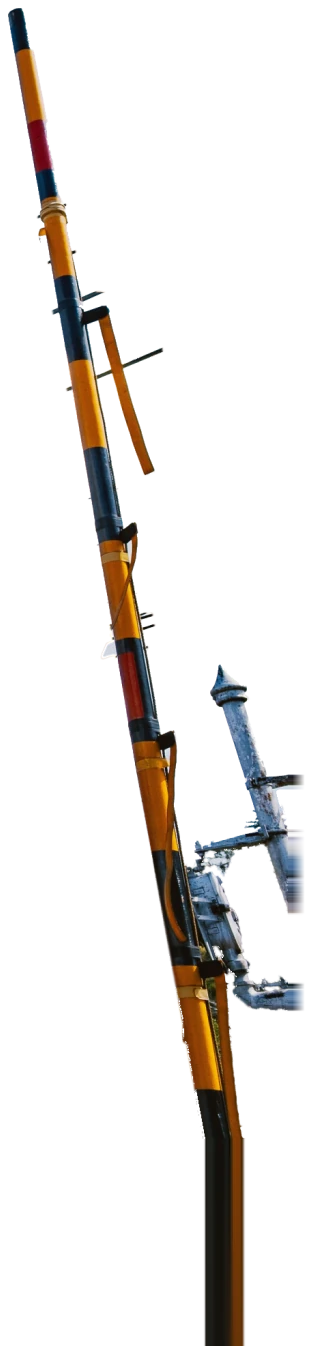
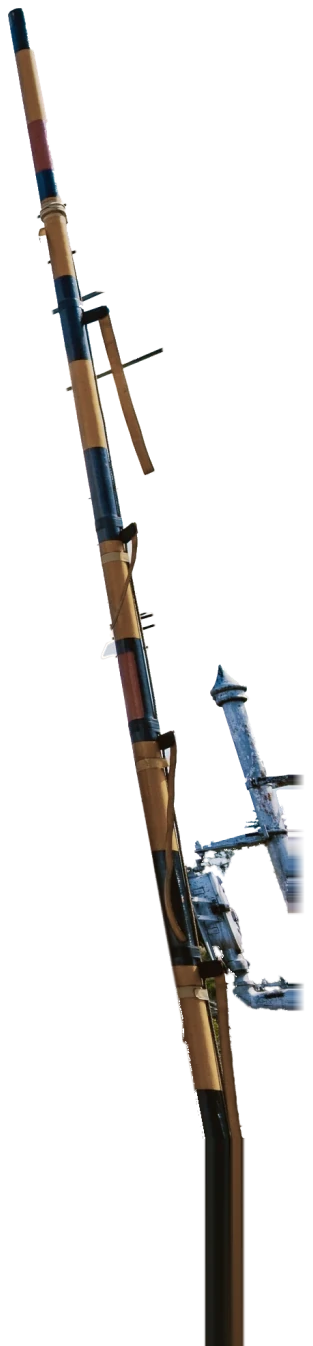
Lab: climb crossing round 3
Claude-Session: https://claude.ai/code/session_01RqENhngNCzDFmJWDZueXGV

diff --git a/src/app/lab/crossing/crossingEngine.js b/src/app/lab/crossing/crossingEngine.js
@@ -106,8 +106,11 @@ const PLANES = [
   // the split (flat: false), as they do inside the photo.
   { file: "p2", rect: [-0.2998, 0.03466, 1.22021, 1.19027], o: 0.2, hold: false, ends: [true, false, false, true], flat: false }, // wires
   // the mechanism box is cut by the right edge and ends a few px past
-  // it (bake.py): that side is a cut-out end, not overscan to keep covered
-  { file: "p3", rect: [0.85742, 0.15708, 1.01025, 1.14971], o: 0.08, ends: [false, false, true, false] }, // barrier boom, mast
+  // it (bake.py): that side is a cut-out end, not overscan to keep covered.
+  // Its orange and red band were regraded to a muted ochre and a dull brick
+  // (boomgrade.py) and it is a little soft (cocFor): one warm accent, the
+  // crossbuck.
+  { file: "p3", rect: [0.85742, 0.15708, 1.01025, 1.14971], o: 0.08, ends: [false, false, true, false], soft: 3 }, // barrier boom, mast
   // the house's margin is its edge column carried straight on (bake.py), which
   // holds as the beams running on for a short way and then reads as streaks
   { file: "p4", rect: [-0.1499, 0.44248, 0.50928, 1.14971], o: -0.06, clean: [-0.03, null, null, null] }, // the old house
@@ -173,6 +176,19 @@ const ASPECT_RANGE = [1 / 1.2, 1.3];
 // look into on every side before any card has to lean on its overscan.
 const ZOOM = 1.05;
 const APERTURE = 15; // CoC in css px for a plane at |z - zf| / z = 1, at split 1
+// A card's circle of confusion in css px: the lens's, opening with the split,
+// and for a card with its own softness (soft, css px) that much again
+// wherever the lens is not on it. The boom is soft: its ochre and brick sit
+// just out of focus beside the crossbuck and the lamp heads, which stay the
+// one sharp warm anchor. Flat it is the photograph, so it fades in with the
+// split; focus on the boom and it comes sharp.
+const SOFT_OFF = 0.03; // |z - zf| / z at which a soft card is fully soft
+const cocFor = (P, z, s, focusZ) => {
+  const off = Math.abs(z - focusZ) / z;
+  const lensCoc = APERTURE * s * off * (P.dof ?? 1);
+  const own = (P.soft ?? 0) * Math.min(1, s / 0.05) * Math.min(1, off / SOFT_OFF);
+  return Math.hypot(lensCoc, own);
+};
 const LIGHT = normalize([0.18, 0.28, 1]); // toward the sun: up, right (the eave's shadow on the wall), toward us
 const HAZE = [0.86, 0.93, 0.95];
 
@@ -836,7 +852,7 @@ export async function createCrossing(host, { embedded = false } = {}) {
     for (let k = 0; k < N; k++) {
       const P = PLANES[k];
       const z = G.zs[k];
-      const coc = APERTURE * s * (Math.abs(z - focusZ) / z) * dpr * (P.dof ?? 1);
+      const coc = cocFor(P, z, s, focusZ) * dpr;
       // the quad grows by the blur so a defocused edge is not cut
       const m = coc / dpr / G.printW;
       const r = P.rect;
@@ -973,7 +989,7 @@ export async function createCrossing(host, { embedded = false } = {}) {
     // The window: the eye stops where a card's overscan runs out, so no
     // card edge ever comes into it. A hand that pushes further is held at
     // the edge, as by the mat itself.
-    const cocs = G.zs.map((z, k) => APERTURE * s * (Math.abs(z - focusZ) / z) * stage.dpr * (PLANES[k].dof ?? 1));
+    const cocs = G.zs.map((z, k) => cocFor(PLANES[k], z, s, focusZ) * stage.dpr);
     const limP = swingLimit(G, 0, pitchDeg, cocs, true);
     pitchDeg *= limP;
     const limY = swingLimit(G, yawDeg, pitchDeg, cocs, false);

diff --git a/tools/depth/bakes/crossing/boomgrade.py b/tools/depth/bakes/crossing/boomgrade.py
@@ -1,0 +1,49 @@
+"""The barrier boom's regrade: one warm accent in the frame, not three.
+
+The crossbuck's yellow and black is the anchor. As shot, the boom beside it is
+a saturated orange with a red band, at the same chroma and the same
+sharpness, so the eye ping-pongs between the two. Here its orange (and its
+strap) goes to a muted ochre at under half its chroma, turned a few degrees
+toward yellow-brown and a shade deeper, and its red band to a dull brick, a
+little lighter and at half its chroma. Everything else on the card (the black bands, the grey
+steel mast and its cap, the white flag) is near-neutral or cool and is left
+alone: the weight is a soft window on hue and chroma.
+
+regrade_boom(rgb, share) takes float32 sRGB 0..1 and moves each pixel by
+`share` of the way to the regraded colour, so a soft edge mixed with the sky
+has only its boom share moved (as regrade_sky does for the sky).
+"""
+import numpy as np
+import cv2
+
+OCHRE_CHROMA = 0.47  # the orange: under half its chroma
+OCHRE_TURN = 4.0  # degrees of hue toward yellow-brown
+OCHRE_DEEPEN = 3.0  # L*: an earth pigment, not a pale khaki
+BRICK_CHROMA = 0.5  # the red band
+BRICK_LIFT = 4.0  # L*: a dull brick, not a dark maroon
+
+
+def _ramp(x, a, b):
+    t = np.clip((x - a) / (b - a), 0, 1)
+    return t * t * (3 - 2 * t)
+
+
+def regrade_boom(rgb, share=None):
+    lab = cv2.cvtColor(np.clip(rgb, 0, 1).astype(np.float32), cv2.COLOR_RGB2Lab)
+    L, A, B = lab[..., 0], lab[..., 1], lab[..., 2]
+    C = np.hypot(A, B)
+    h = np.degrees(np.arctan2(B, A))
+    # warm hues only (red through orange to amber), and only what has colour
+    warm = _ramp(h, -25, -5) * (1 - _ramp(h, 88, 100)) * _ramp(C, 8, 18)
+    # 0 for the red band (hue about 30 deg), 1 for the orange (about 58 deg)
+    orange = _ramp(h, 38, 50)
+    scale = BRICK_CHROMA + (OCHRE_CHROMA - BRICK_CHROMA) * orange
+    turn = OCHRE_TURN * orange * (1 - _ramp(h, 72, 88))
+    C2 = C * (1 - warm * (1 - scale))
+    h2 = np.radians(h + warm * turn)
+    L2 = L + warm * ((1 - orange) * BRICK_LIFT - orange * OCHRE_DEEPEN)
+    out = cv2.cvtColor(np.dstack([L2, C2 * np.cos(h2), C2 * np.sin(h2)]).astype(np.float32), cv2.COLOR_Lab2RGB)
+    out = np.clip(out, 0, 1)
+    if share is None:
+        return out
+    return (rgb + np.clip(share, 0, 1)[..., None] * (out - rgb)).astype(np.float32)

diff --git a/tools/depth/bakes/crossing/bake.py b/tools/depth/bakes/crossing/bake.py
@@ -17,7 +17,8 @@ Reads <workdir>/labels.npz from labels.py. For every plane, far to near:
              veil that slides over the cards behind as a ghost contour), the
              wires' alpha measured as how far each pixel is darkened toward
              the wire, and the town solid inside its outline.
-  colour     the photo where the plane is seen; its edge pixels are
+  colour     the photo where the plane is seen (the boom's regraded to a
+             muted ochre and brick by boomgrade.py); its edge pixels are
              un-mixed from what lies behind them (no sky fringe on a pole);
              hidden parts are inpainted: smooth colour from a push-pull
              pyramid plus real texture mirrored across the occlusion edge.
@@ -52,6 +53,7 @@ sys.path.insert(0, os.path.dirname(os.path.abspath(__file__)))
 from common import box, guided, dilate, erode, pushpull, smoothstep  # noqa: E402
 from shiftfill import shiftfill  # noqa: E402
 from skygrad import sky_gradient  # noqa: E402
+from boomgrade import regrade_boom  # noqa: E402
 
 WORK, OUT = sys.argv[1:3]
 os.makedirs(OUT, exist_ok=True)
@@ -179,6 +181,11 @@ img, SKY_G = regrade_sky(img, 1 - A[1])
 WIRE_K = 2  # the plane that holds the overhead wires
 TOWN_K = 1  # the far houses: the street's back flat
 BOOM_K = 3  # the barrier boom, its mast and mechanism
+# One warm accent, the crossbuck: the boom's saturated orange and red band go
+# to a muted ochre and a dull brick (boomgrade.py). Only the boom's share of
+# each pixel moves, so its card, its un-mixed edges and the flat photograph
+# (and so cumulus.py, wires.py and crossbuck.py after it) all carry it.
+img = regrade_boom(img, A[BOOM_K] - A[BOOM_K + 1])
 # Big holes with structure behind them (the house wall and fence behind the
 # camellia, the far houses behind the lamp heads) go to LaMa through
 # tools/depth/fill.py when the model is present; shiftfill otherwise.
